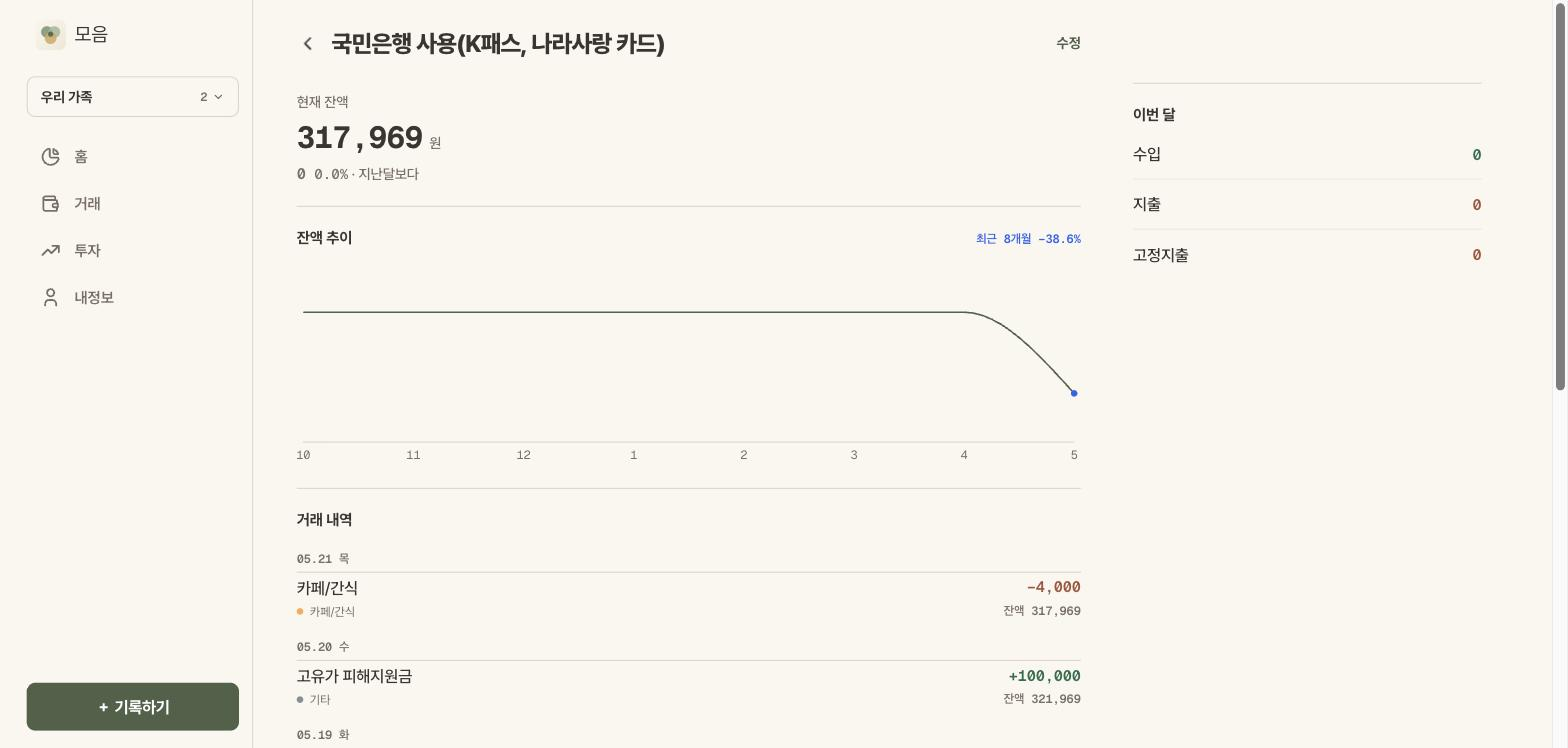
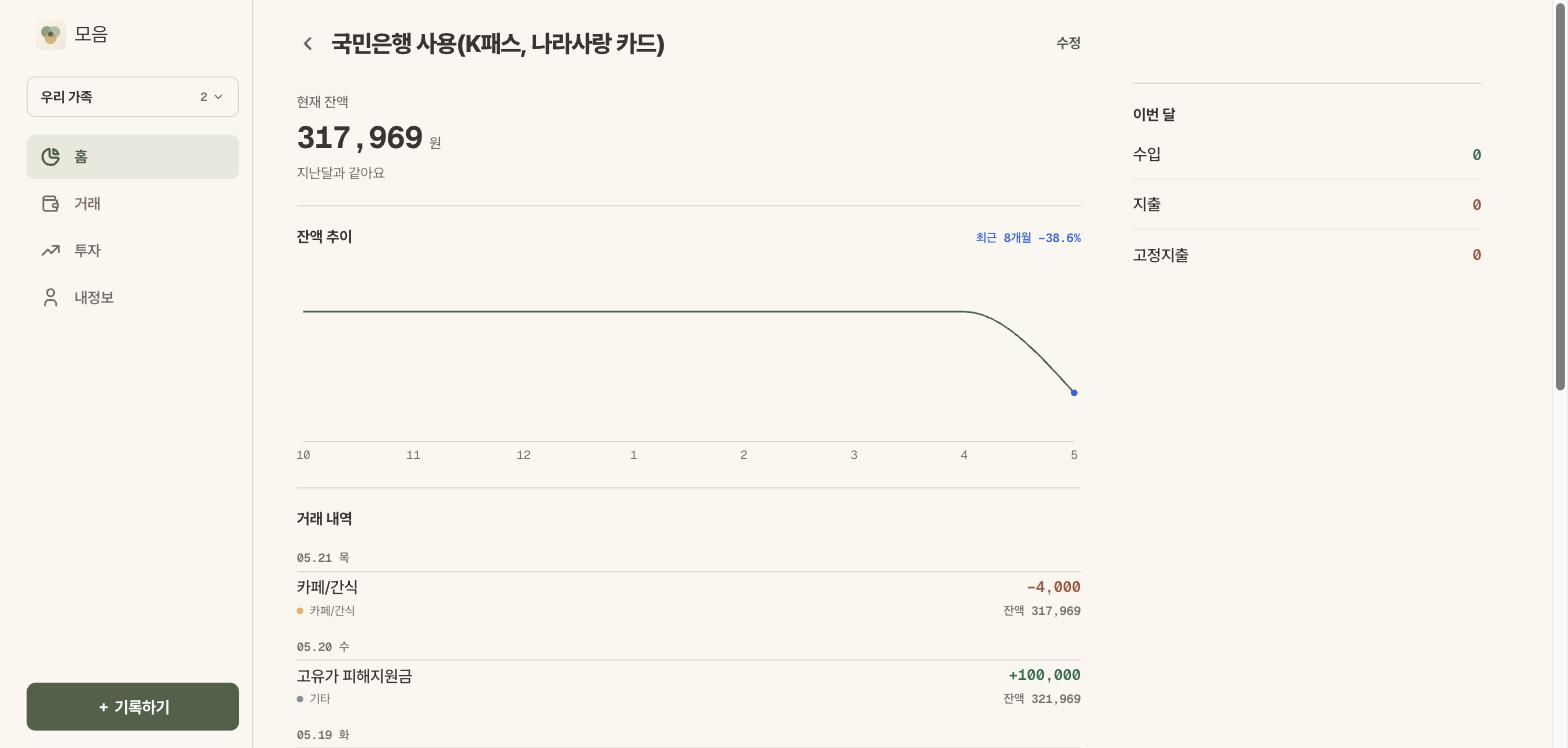
docs: 리디자인 배치3 S6 QA 결과·DESIGN 규칙·shot 갱신
qa/3.md 에 대조표·blocking 4·수정 11·보류 9 와 픽스 실측을 남기고,
DESIGN §5 에 삭제 글자색(danger-text)·비활성 배경·선택기 히트 44·포커스 규칙을 추가.

diff --git a/docs/design/redesign-20260911/qa/3.md b/docs/design/redesign-20260911/qa/3.md
@@ -1,0 +1,75 @@
+# QA redesign-20260911 배치3 — 2026-09-12 @dbbd918(감사) · 픽스 f71220c
+토큰 신규 위반: 0(baseline 88 유지) · design-review(감사만 — 배치1·2 와 같은 방식, 자동 커밋은 `/commit` 룰과 충돌): **blocking 4 / 수정 11 / 보류 9** → 사용자 D1 "전부", blocking 4 + 수정 11 처리 · typecheck 0 · lint 0 · 콘솔 에러 0(배치3·폼 10경로 390 iframe, 예외 H-307) · 가로 스크롤 0
+외부 시각: Codex(소스 감사 7건) + Claude 서브에이전트(일관성 7 + polish 9) — 겹친 것: 소수·빈 값 입력 처리 · 색 선택 포커스 링 · 44 미만 타깃(색 28 · 아이콘 36 · 세그) · 컨트롤 접근성 이름 · `red/blue/green` 알림 색 · 폼 간격 14 vs 8
+디자인 점수: 감사 전 B(시안 배치는 전부 일치, 감점 = 입력 회귀 B-1 · 다크 삭제색 B-3 · 비활성 삭제 블록 B-2) → 픽스 후 A-(남은 것 = 보류 9, 세그 높이 H-301 이 가장 큼) · AI slop A(카드 0 · 그라데이션 0 · 3열 아이콘 그리드 0) · Litmus 7개 중 YES 6(6번 모션 = 세그 인디케이터뿐, 명세서 룩 의도)
+
+## 대조표
+| ID | handoff | shot | 차이 | 판정 |
+|---|---|---|---|---|
+| account/[accountId] | handoff/3/shots/Main.png · AccountDesktop.png (정본 Figma 58:383) | shots/account-detail.jpg · account-detail-desktop.jpg · 다크 390 렌더 | 배치 일치(hero 28 · StatGrid · 잔액 추이 · 거래 내역 · 데스크톱 "이번 달" 레일) · 대비 라이트 4.55~11.18 / 다크 6.23~14.44 · 변화 0 이면 "0 0.0%"(F-306) · 탭바 활성 없음(F-304) | ✅(픽스 후) |
+| account/new | AccountSheet.png · AccountPageDesktop.png (정본 60:77) | shots/account-new-desktop.jpg | 페이지 모드 Card 0 · 폼 560 실측 · 세그 생활·적립·투자 · 라벨 문구가 Figma(이름·유형·색)와 i18n(통장명·타입·색상) 다름(F-311) · 색 선택 포커스 링 없음(F-301) | ✅(픽스 후) |
+| account/[accountId]/edit | AccountSheetEdit.png (정본 60:249) | shots/account-edit.jpg · 다크 페이지 모드 렌더 | 푸터 [삭제 x8 · 글자 21 = 필드 선 20][취소][수정] 실측 · 선택 아이콘 accent 2px 확인 · **다크 삭제 글자 #FEF2F2**(B-3) · **비활성 삭제 회색 블록이 필드 선 밖으로**(B-2, 종목 수정 시트 실측) | ✅(픽스 후) |
+| 매매 시트 | TradeSheet.png · TradeSheetEdit.png (정본 61:115) | shots/trade-sheet.jpg · 데스크톱 모달 560 · r12 실측 | 2열 · 정산 요약 · 기록 버튼 accent(#4F6149) · 50×12,418 → 620,900 · **수량 "1.5" → "5"**(B-1) · 수수료 0 에 "+0원"(F-307) · 날짜 placeholder 형식 다름(F-308) | ✅(픽스 후) |
+| /account | ⏭ | 리다이렉트 실측(/ko/account → /ko/wealth) | — | ✅ |
+| 상태·힌트 | States.png | 390 iframe 실측 | 평가조정: 입력 전 "잔액 620,000,000원" 만 → 630,000,000 입력 후 "· 10,000,000원 평가증가"(up) ✅ · **빈 새 평가액 제출 = 잔액 전액 감소**(B-4) · 삭제 불가 힌트 표시 ✅ | ✅(픽스 후) |
+
+## blocking — 회귀·시안 불일치
+| # | 발견 | 출처 | 수정안 |
+|---|---|---|---|
+| B-1 | 수량에 "1.5" 를 치면 "5" 가 남음(소수 주식 불가) · 시작 잔액 "-" 로 음수 입력 불가 — S5 에서 넣은 `onChange` 가 중간 문자열("1." · "-")을 0 으로 바꿈 | codex · 나(실측) | trade-form `numProps` · account form 시작 잔액: 빈 값만 0, 나머지는 `getInputProps(f).onChange(v)` 그대로(제출 직전 숫자화는 이미 있음). 화면 빈칸(`|| ""`)은 유지 |
+| B-2 | 비활성 삭제(저장 중 매번 · 종목 보유 시 상시)가 Mantine `:disabled` 배경으로 **회색 블록**이 되고 `ml -12` 때문에 필드 선 밖으로 삐져나옴 | subagent · 나(실측) | 삭제 버튼에 `moeum-remove-action` 클래스 → globals `:disabled` 배경 투명(글자만 disabled 색) + `removeHint` 를 `aria-describedby` 로 연결 |
+| B-3 | 다크에서 삭제 글자가 **#FEF2F2(거의 흰색)** — `--mantine-color-danger-light-color` 가 다크 primaryShade 4 기준 `danger.0` 로 풀림(Mantine 계산). 파괴적 행동인데 중립 글자로 보임 | 나(실측) · codex(셰이드 없는 danger) | 삭제 버튼 `--button-color: var(--mantine-color-danger-text)`(라이트 #B91C1C · 다크 #F87171) — 새 토큰 없이 테마 변수. disabled 는 Mantine 규칙이 그대로 회색 처리 |
+| B-4 | 새 평가액을 비운 채(0) "추가" → `diff = −잔액` 으로 **자산 전액 감소 거래 생성**. 원래 있던 위험인데 S5 힌트 변경으로 경고성 문구("감소 <잔액>")마저 사라짐 | subagent · 나(코드 확인) | 거래 폼 평가조정 생성: `valuation <= 0` 이면 필드 에러 "새 평가액을 입력해 주세요"(ko/en 키) 후 중단. 0 원 처리는 자산 삭제로(수동자산 시트) |
+
+## 수정 — 품질(시안은 맞음)
+| # | 발견 | 심각도 | 출처 | 수정안 |
+|---|---|---|---|---|
+| F-301 | 색 선택 버튼 인라인 `outline: none` 이 키보드 포커스 링을 지움 · 선택 링과 포커스 링 구분 없음 | high(a11y) | codex · subagent | 선택 = `box-shadow: 0 0 0 2px surface, 0 0 0 4px text`, outline 은 Mantine focus-visible 에 맡김 |
+| F-302 | 터치 타깃 44 미만: 색 원 28 · 아이콘 칸 높이 36 | medium | codex · subagent · 나(실측) | 색 = 44 버튼 안 28 원(시각 그대로, 간격 0) · 아이콘 칸 높이 44 |
+| F-303 | 유형 세그·색·아이콘 묶음에 접근 가능한 이름 없음(`Input.Wrapper` label 의 for 대상 없음) · 색은 hex, 아이콘은 영문 키로 읽힘 | medium(a11y) | codex · subagent | 묶음 `role="group"`(세그는 radiogroup) + `aria-labelledby` · 색 `"{라벨} N"`(i18n) · 아이콘 이름 i18n 16개 |
+| F-304 | `/wealth` · `/account/*` 에서 탭바 활성 탭 없음(홈 매칭이 루트만) — "지금 어디" 가 안 보임. Figma 46:195 는 투자 활성, 58:383 은 홈 활성으로 서로 다름 | medium | 나 | bottom-tab·sidebar 홈 매칭에 `/wealth`·`/account` 추가(자산 = 홈의 하위) · Figma 46:195 탭바 홈으로 |
+| F-306 | 지난달과 잔액이 같으면 "0 0.0% · 지난달보다" | low | subagent · 나 | 통장 상세만: delta 0 이면 "지난달과 같아요"(dim) |
+| F-307 | 수수료 0 에 "+0원" | low | subagent | 0 이면 부호 없이 |
+| F-308 | 날짜 placeholder "YYYY-MM-DD" ↔ 표시 "YYYY.MM.DD"(매매·거래 폼) | low | subagent | placeholder "YYYY.MM.DD" |
+| F-309 | 수수료 힌트만 "~됩니다"(나머지 "~어요") | low | subagent | "매수 수수료는 평단가에 포함돼요" · "매도 수수료는 실현손익에서 빠져요" |
+| F-310 | 페이지 모드 통장 **수정** 저장 후 /wealth 로 감(취소는 back) | low | subagent | 수정 → `/account/[id]`, 생성·삭제 → /wealth |
+| F-311 | Figma 60:77·60:249 필드 라벨(이름·유형·색)이 코드 i18n(통장명·타입·색상)과 다름 | low | 나 | 문구 정본 = i18n → Figma 텍스트를 코드 문구로 |
+| F-312 | 삭제 불가 힌트가 스크린리더에 버튼과 연결 안 됨 | low(a11y) | subagent | B-2 와 같이 `aria-describedby` |
+
+## 보류 · 결정 필요
+| # | 내용 | 제안 |
+|---|---|---|
+| H-301 | SegmentedControl 높이 ~34(44 미만) — 테마 기본 `sm`, 배치1 부터 모든 세그 | 테마 `SegmentedControl` 기본 `size: "md"`(전 화면 영향 → 결정 필요) |
+| H-302 | 폼 간격 14(통장·매매·거래 = Figma 14) vs "sm" 8(카테고리·고정비·가계부·종목·자산) | 배치4·5 폼 화면 때 14 로 통일 + DESIGN §5 에 "폼 간격 14" 명시 |
+| H-303 | 시작 잔액·단가·수수료도 금액 28/56 로? | 기각 — Figma 60:77·61:115 는 44 필드. DESIGN "금액 입력만 28/56" 을 "거래 금액 한 칸" 으로 문구 정정 |
+| H-304 | 인풋 단위 라벨("원"·"주") 복붙 5곳(12px `pr 8` 변형 2) | 다음 폼 배치에서 `InputUnit` 공용 추출 |
+| H-305 | 카테고리 종류 Select 2개(§5 = 세그) · 종목 조회 버튼 `variant="light"` | 배치4 · 배치7 |
+| H-306 | 이번 달 수입·지출이 0 이어도 의미색 | 0 = 방향 없음 → dim? 거래 요약(배치1)과 같은 규칙이라 전역 결정 |
+| H-307 | `/household/new` textarea `value=null` 경고(콘솔) | 배치5 가계부 폼(기존 버그) |
+| H-308 | StatGrid "지출" = 일반 지출(고정 제외, `monthlyFlows.expense`) — 합산 아님은 코드로 확인. 라벨이 총지출로 읽힐 수 있음 | "일반 지출" 로? 문구 결정 |
+| H-309 | 알림·확인 색 `red`/`blue`/`green`(팔레트 이름) — 매매·거래·카테고리·고정비·통장 훅 전부(기존) | 별도 정리 1커밋: 성공 `positive` · 실패/삭제 `danger` · 매수 알림 틴트 제거 |
+
+## 픽스 검증 (f71220c, 390 iframe · 1440 · dev 서버 재시작 후)
+| # | 실측 |
+|---|---|
+| B-1 | 매매 수량 "1.5" 유지 · 1.5 × 10,000 → 정산 15,000원 / 통장 시작 잔액 "-5,000" 입력 |
+| B-2 | 종목 수정 시트(보유 60주) 비활성 삭제 배경 `rgba(0,0,0,0)` · 글자 disabled 회색 · 힌트 `aria-describedby` 연결 |
+| B-3 | 다크 통장 수정 삭제 글자 `rgb(248,113,113)` = danger.4(라이트는 #B91C1C) |
+| B-4 | 수동자산(우리집 아파트) + 새 평가액 빈 칸 + 추가 → "새 평가액을 입력하세요" · POST 0건(QA 가 요청 가로채 확인) |
+| F-301 | Tab 으로 "색 2" 포커스 → `:focus-visible` outline 2px accent, 선택 링(본문색)과 따로 보임 |
+| F-302 | 색 44×44(원 28) · 아이콘 39×44(8열 모바일 폭) |
+| F-303 | radiogroup "타입" · group "색상" · group "아이콘" · 매매 radiogroup "매매 구분" · 색 "색 N" · 아이콘 한글 이름 |
+| F-304 | 활성 탭 = /ko 홈 · /ko/wealth 홈 · /ko/account/* 홈 · /ko/transactions 거래 · /ko/invest/* 투자. FAB = /ko·/ko/transactions(·/new)만, /wealth·/account 없음(재검증 중 발견한 FAB 확산을 `isHomeRoot` 로 분리) |
+| F-306 | 통장 상세 "지난달과 같아요"(0 변화) |
+| F-307·308·309 | 수수료 0 → "0원" · 날짜 placeholder YYYY.MM.DD · "평단가에 포함돼요" |
+| F-310 | 코드 확인(수정 → /account/[id], 생성·삭제 → /wealth) |
+| F-311 | Figma 60:77·60:249 라벨 통장명·타입·색상 · 61:115 거래일·(선택) · 아이콘 칸 44 · 46:195 탭바 홈 활성 |
+
+typecheck 0 · lint 0 · 토큰 신규 0(baseline 88) · 콘솔 에러 0(12경로 390, 예외 H-307) · 가로 스크롤 0 · shots 5장 재촬영(account-detail · -desktop · account-edit · account-new-desktop · trade-sheet)
+중간 사고: dev 서버가 편집 누적으로 `/wealth` SSR 500(`useContext null`, 학습 기록의 그 증상) → 재시작 후 정상. 코드 원인 아님.
+
+남은 것: 보류 H-301~H-309(결정 필요 H-301 · H-306 · H-308 · H-309, 나머지는 다음 배치·문구 정정)
+
+## 룰 구멍 메모
+- build-qa S5 "화면별 렌더" 가 **입력 동작**(소수·음수·빈 값)을 안 봄 → 폼 배치는 필드 타이핑 실측을 게이트에 넣어야 B-1 같은 회귀를 S5 에서 잡음.
+- 다크 스킴 샘플이 S6 에서만 나옴 → 공통 컴포넌트(버튼 variant) 변경 시 S5 에서 다크 1장.

diff --git a/docs/design/redesign-20260911/status.md b/docs/design/redesign-20260911/status.md
@@ -1,5 +1,5 @@
 # design-flow status — redesign-20260911
-재개: 배치3 S5 🟡 승인 대기 — 코드 5커밋(53a3063 · 8ac750b · 67340e3 · e06f89f · d50f0b4) → 사용자 ✅ 후 배치3 S6 QA · 참조 0 파일 삭제 확인 대기(account-section · account/components/table · use-search · useAccountInfiniteList)
+재개: 배치3 S6 🟡 사용자 ✅ 대기 — qa/3.md(감사 @dbbd918 · 픽스 f71220c): blocking 4 + 수정 11 처리 · 보류 9 중 결정 필요 H-301·H-306·H-308·H-309 → ✅ 후 배치4 S3
 look=교체(Warm Ledger→Statement·Warm)  figma=full  fileKey=j1xaab6icKdvERz6SbU6E0 (https://www.figma.com/design/j1xaab6icKdvERz6SbU6E0)  lib=같은 파일 로컬(혼자·게시 불필요)  baseline=token-baseline.txt
 
 | 단계 | 상태 | 산출물·식별자 | 날짜 |
@@ -16,7 +16,8 @@ look=교체(Warm Ledger→Statement·Warm)  figma=full  fileKey=j1xaab6icKdvERz6
 | 배치2 S6 | ✅ | qa/2.md @docs 커밋(사용자 ✅ 2026-09-12 "커밋까지") · 픽스 H-1 38814e6 · QA 82ac282 — 토큰 신규 0 · typecheck·lint 0 · 콘솔 0(9경로) · /design-review 감사만 + Codex·서브에이전트 외부 시각 · blocking 6(자산군 색 고정 매핑 · 종목 0 비중 숨김 · 시트가 탭바 덮음 · 로딩/에러/통장0 상태 · 배분 차트 200 · 매매 내역 제목) + 수정 17 전부 처리 · 보류 결정 H-1 라이트 의미색 한 단계 진하게(AA) · H-7 "직접 입력 자산" · 에러 경계 렌더 검증(500 주입 → 섹션 재시도 → 복구) · shots 7장 재촬영 · Figma 변수 라이트 6개 + 46:195 섹션 제목 동기화 · value-trend-chart.tsx 삭제 · 남은 보류: H-2·H-3·H-8 문서 정정, H-4 배치3, H-6 토큰 정리 | 2026-09-12 |
 | 배치3 S3 | ✅ | 계획표 plan/3.md(account/[accountId] · account/new · account/[accountId]/edit · 매매 시트 + 폼 공통) · 결정: /account 목록 → /wealth 리다이렉트(사용자, 들어오는 링크 0) · 통장 상세 월별 수입·지출 막대 제거(사용자 피드백 — StatGrid·잔액 추이·거래 내역과 중복, 데스크톱 레일 = 이번 달 행 3) · 가설 = 배치1 pick A+C 확장(재생성 없음) · handoff/3 = 8 아트보드(*.dc.html + gen.py(배치2 헬퍼 exec 재사용, H-1 라이트 색) + canvas.json) + shots/8 png(헤드리스 크롬 390·1440, 상태 390×1180) · 캔버스 https://claude.ai/code/artifact/2290a1c2-daf8-45d8-bad6-3b6c4bfaa9bc · pick=A+C @8a07ea1 · 사용자 ✅ 2026-09-12 | 2026-09-12 |
 | 배치3 S4 | ✅ | node-id 4 (페이지 "배치3 · 390" 58:382 — account/[accountId] 58:383 · account/new 60:77 · account/[accountId]/edit 60:249 · 매매 시트(매수) 61:115) · get_design_context OK(var(--moeum-*) + 컴포넌트 설명) · 미바인딩 solid 0/4(색 팔레트 12원은 사용자 데이터 hex — `(data)` 이름으로 예외) · 배치1·2 로컬 컴포넌트 재사용(ListRow·SectionHeader·StatGrid3·Button·TabBar), 신규 컴포넌트 0 — 통장 상세 = 종목 상세 45:130 복제(기간 칩·매수매도 제거, 거래 행은 22:90 에서), 시트 3개 = 46:451 복제(상단 라운드 16 = 코드) · 통장 수정 = 푸터 좌측 "삭제"(danger/7) + 취소·저장 · 매매 시트 = 수량·단가 / 수수료·날짜 2열 + 정산 요약(hair-2 위 3행) · 곁가지: 배치2 46:451 입력칸 310 → FILL(코드와 폭 일치) · 사용자 ✅ 2026-09-12 | 2026-09-12 |
-| 배치3 S5 | 🟡 | 코드 · 커밋 공통 53a3063 · 매매 시트 8ac750b · account/[accountId] 67340e3 · account/new·edit e06f89f · /account 리다이렉트 d50f0b4 — 공통: FormActions 삭제 좌측 한 줄(subtle danger, 음수 마진으로 글자 선 맞춤) · 페이지 모드 Card 제거 6폼(hideCard → inSheet, 폼 섹션 maw 560) · ColorPicker 28·6열·링 / IconPicker 8열·accent-soft + 2px 안쪽 테두리(렌더에서 accent-soft 만으론 구분 약해 보강, Figma 60:187·60:297 동기화) · 팔레트 hex → palette.ts `USER_COLOR_PALETTE` · 평가조정 힌트 입력 후에만 증감 / 매매 시트: 2열(수량·단가 / 수수료·날짜, 설명은 인풋 아래) · 정산 요약 3행 · 기록 버튼 accent(H-4) · 단위 "주" i18n / account/[accountId]: compact hero + DeltaPill asset(지난달 잔액 대비) · StatGrid(이번 달 수입·지출·고정지출, 모바일) · 잔액 추이 SectionBoundary · 거래 내역 Section · 데스크톱 레일 "이번 달" 3행 · 라우트 Suspense 스켈레톤 · 막대 차트·FlowTooltip 제거(i18n monthly_flow·empty_flow·ledger_title 삭제) / 통장 폼: 유형 세그먼트 · 시작 잔액 원·빈칸 / 리다이렉트: /account → /wealth, 폼 페이지 모드 저장 후 /wealth — 검증: typecheck 0 · lint 0 · 토큰 신규 0(baseline 88) · 콘솔 에러 0(batch3·폼 10경로, 390 iframe) — 예외 /household/new textarea null 경고 1(기존, 배치5 가계부 폼) · 매매 입력 50×12,418 → 정산 620,900 확인(제출 X) · 통장 수정 시트 푸터 [삭제 x0][취소][수정] 실측 · shots 5장(account-detail · -desktop · account-edit · account-new-desktop · trade-sheet) · DESIGN §5 버튼·폼 필드 행 갱신 | 2026-09-12 |
+| 배치3 S5 | ✅ | 코드 · 커밋 공통 53a3063 · 매매 시트 8ac750b · account/[accountId] 67340e3 · account/new·edit e06f89f · /account 리다이렉트 d50f0b4 — 공통: FormActions 삭제 좌측 한 줄(subtle danger, 음수 마진으로 글자 선 맞춤) · 페이지 모드 Card 제거 6폼(hideCard → inSheet, 폼 섹션 maw 560) · ColorPicker 28·6열·링 / IconPicker 8열·accent-soft + 2px 안쪽 테두리(렌더에서 accent-soft 만으론 구분 약해 보강, Figma 60:187·60:297 동기화) · 팔레트 hex → palette.ts `USER_COLOR_PALETTE` · 평가조정 힌트 입력 후에만 증감 / 매매 시트: 2열(수량·단가 / 수수료·날짜, 설명은 인풋 아래) · 정산 요약 3행 · 기록 버튼 accent(H-4) · 단위 "주" i18n / account/[accountId]: compact hero + DeltaPill asset(지난달 잔액 대비) · StatGrid(이번 달 수입·지출·고정지출, 모바일) · 잔액 추이 SectionBoundary · 거래 내역 Section · 데스크톱 레일 "이번 달" 3행 · 라우트 Suspense 스켈레톤 · 막대 차트·FlowTooltip 제거(i18n monthly_flow·empty_flow·ledger_title 삭제) / 통장 폼: 유형 세그먼트 · 시작 잔액 원·빈칸 / 리다이렉트: /account → /wealth, 폼 페이지 모드 저장 후 /wealth — 검증: typecheck 0 · lint 0 · 토큰 신규 0(baseline 88) · 콘솔 에러 0(batch3·폼 10경로, 390 iframe) — 예외 /household/new textarea null 경고 1(기존, 배치5 가계부 폼) · 매매 입력 50×12,418 → 정산 620,900 확인(제출 X) · 통장 수정 시트 푸터 [삭제 x0][취소][수정] 실측 · shots 5장(account-detail · -desktop · account-edit · account-new-desktop · trade-sheet) · DESIGN §5 버튼·폼 필드 행 갱신 · 참조 0 삭제 dbbd918(account-section · account/components/table · use-search · useAccountInfiniteList · GetAccountSearchApi · 무한 쿼리 키 · i18n list_title·add, 사용자 확인) · 사용자 ✅ 2026-09-12 | 2026-09-12 |
+| 배치3 S6 | 🟡 | qa/3.md · 감사 @dbbd918 · 픽스 f71220c(사용자 D1 "전부") — 토큰 신규 0 · typecheck·lint 0 · 콘솔 0(12경로) · /design-review 감사만 + Codex(7) · 서브에이전트(7+polish 9) · blocking 4(소수·음수 입력 회귀 · 비활성 삭제 회색 블록 · 다크 삭제 흰 글자 · 빈 새 평가액 = 자산 전액 감소) + 수정 11(선택기 포커스·44·접근성 이름 · 홈 탭 활성(FAB 분리) · 0 변화 문구 · 수수료 부호 · 날짜 형식 · 힌트 톤 · 수정 후 상세 · Figma 문구) 전부 실측 · Figma 60:77·60:249·61:115·46:195 동기화 · shots 5장 재촬영 · DESIGN §5 버튼·폼 필드 · 남은 보류 9 | 2026-09-12 |
 | 마감 | ⬜ | qa/final.md | |
 
 상태: ⬜ 미완 · 🟡 진행 중 · 🟡 산출물 있음·승인 전 · ✅ 통과(식별자 필수) · ⏭ 해당없음. 식별자가 바뀌면 그 뒤 ✅ 는 ⬜ 로. 배치가 늘면 행을 복사한다.

diff --git a/DESIGN.md b/DESIGN.md
@@ -111,8 +111,8 @@
 | 셸 | 모바일 헤더 48(브랜드 accent 15/800 · 우측 모노 기준일 · 가계부 pill) · 탭바 64(bg 배경 · 상단 hair · 활성 accent) · `＋ 기록` 8px 라운드 accent 버튼 40px(탭바 위 우측, 홈·거래) / 데스크톱 사이드바 220(활성 = accent-soft 배경 + accent 텍스트, 하단 "기록하기") |
 | 시트 · 모달 | 바텀시트 448 · 상단 16 · 핸들 40×4 hair / 데스크톱 모달 560(같은 Drawer 를 CSS `@media` 로 가운데), surface 배경, 높이는 내용에 맞춤(최대 90dvh, 넘치면 안에서 스크롤 + 푸터 sticky). 제목은 `Drawer.Title`(다이얼로그 이름). **시트가 탭바를 덮는다** — z: 헤더 30 < FAB 150 < 탭바 190 < Drawer/Modal 200 < 드롭다운 300·1100 (배치2 S6 B-3) |
 | 상태 | 로딩 = `SectionSkeleton`(페이지 `hero rows={3}` · 보조 섹션 `rows`/`chart`, 실제 레이아웃 모양) · 에러 = 보조 섹션은 `SectionBoundary`(섹션 제목 + "불러오지 못했어요 · 다시 시도"), 화면 주 쿼리는 (user)/error.tsx · 빈 = `EmptyText`(문장 "~어요" + 행동 링크) |
-| 폼 필드 | filled surface-2 · 높이 44 · 라운드 8. 라벨 13/500 dim(설명 12 보다 커야 함 — 배치2 S5 피드백으로 11→13), 금액 입력만 모노 28 · 높이 56. 세그먼트에 `color` 채움 금지(흰 인디케이터 위 흰 글자) → 의미색은 라벨 글자에. 숫자 입력은 상태 0 이어도 빈 칸 + placeholder `0`, 단위(원·주)는 우측 dim 13. 선택지 3개 이하는 Select 대신 세그먼트. 색 선택 = 원 28 · 6열 · 선택 본문색 2px 링(팔레트는 `palette.ts` `USER_COLOR_PALETTE` — 저장되는 데이터), 아이콘 선택 = 8열 36 · 선택 accent-soft + accent 2px 안쪽 테두리. 페이지 모드(fallback 라우트) 폼은 Card 없이 폭 560 (배치3) |
-| 버튼 | filled = accent + `on-accent`(라이트 흰 / 다크 딥브라운), outline = hair 테두리, subtle = accent 텍스트. 높이 36/44/52. 삭제 = subtle `danger` — 폼 푸터 **좌측** auto 폭, 취소·저장과 한 줄(`FormActions`, 배치3). 기록·저장 버튼은 매수/매도여도 accent(의미색은 세그먼트 글자에만). 아이콘 버튼 히트 44 |
+| 폼 필드 | filled surface-2 · 높이 44 · 라운드 8. 라벨 13/500 dim(설명 12 보다 커야 함 — 배치2 S5 피드백으로 11→13), 금액 입력만 모노 28 · 높이 56. 세그먼트에 `color` 채움 금지(흰 인디케이터 위 흰 글자) → 의미색은 라벨 글자에. 숫자 입력은 상태 0 이어도 빈 칸 + placeholder `0`, 단위(원·주)는 우측 dim 13. 선택지 3개 이하는 Select 대신 세그먼트. 색 선택 = 원 28(히트 44) · 6열 · 선택 본문색 2px 링은 box-shadow(outline 은 키보드 포커스 몫, 팔레트는 `palette.ts` `USER_COLOR_PALETTE` — 저장되는 데이터), 아이콘 선택 = 8열 · 높이 44 · 선택 accent-soft + accent 2px 안쪽 테두리. 묶음은 `role=group` + 라벨 연결. 페이지 모드(fallback 라우트) 폼은 Card 없이 폭 560 (배치3) |
+| 버튼 | filled = accent + `on-accent`(라이트 흰 / 다크 딥브라운), outline = hair 테두리, subtle = accent 텍스트. 높이 36/44/52. 삭제 = subtle `danger` — 폼 푸터 **좌측** auto 폭, 취소·저장과 한 줄(`FormActions`, 배치3). 글자색은 `--mantine-color-danger-text`(다크 primaryShade 4 에서 Mantine light-color 가 danger.0 로 풀림), 비활성은 배경 투명(`.moeum-remove-action`). 기록·저장 버튼은 매수/매도여도 accent(의미색은 세그먼트 글자에만). 아이콘 버튼 히트 44 |
 
 ## 6. 모션
 | 상황 | 값 |
